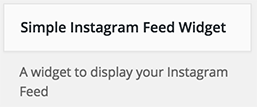
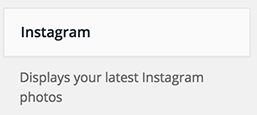
Updated Instagram widget related documemtation

Changed region(s): [[0.0623, 0.1963, 0.9027, 0.3645], [0.0623, 0.6168, 0.9027, 0.757], [0.0623, 0.785, 0.249, 0.9252]]

diff --git a/index.html b/index.html
@@ -564,12 +564,12 @@
                         <div class="entry-content">
                             <h2 class="entry-title">How to set up Instagram Widget</h2>
                             <ol>
-                                <li>Install the <a target="_blank" href="https://wordpress.org/plugins/simply-instagram/">Simple Instagram</a> plugin.</li>
-                                <li>Go to <strong>Appearance &gt; Widgets</strong> and look for <strong>Simple Instagram Feed</strong> widget.
+                                <li>Install the <a target="_blank" href="https://wordpress.org/plugins/wp-instagram-widget/">Wp Instagram Widget</a> plugin.</li>
+                                <li>Go to <strong>Appearance &gt; Widgets</strong> and look for <strong>Instagram</strong> widget.
                                     <br/>
                                     <img class="light-border" src="assets/candor/widgets/15.png" alt=""/>
                                 </li>
-                                <li>Provide title, User ID, number of images and save the widget settings.
+                                <li>Provide Title, Username, Number of photos, Photo size, Open link in, Link text and save the widget settings.
                                     <br/>
                                     <img class="light-border" src="assets/candor/widgets/16.png" alt=""/>
                                 </li>
